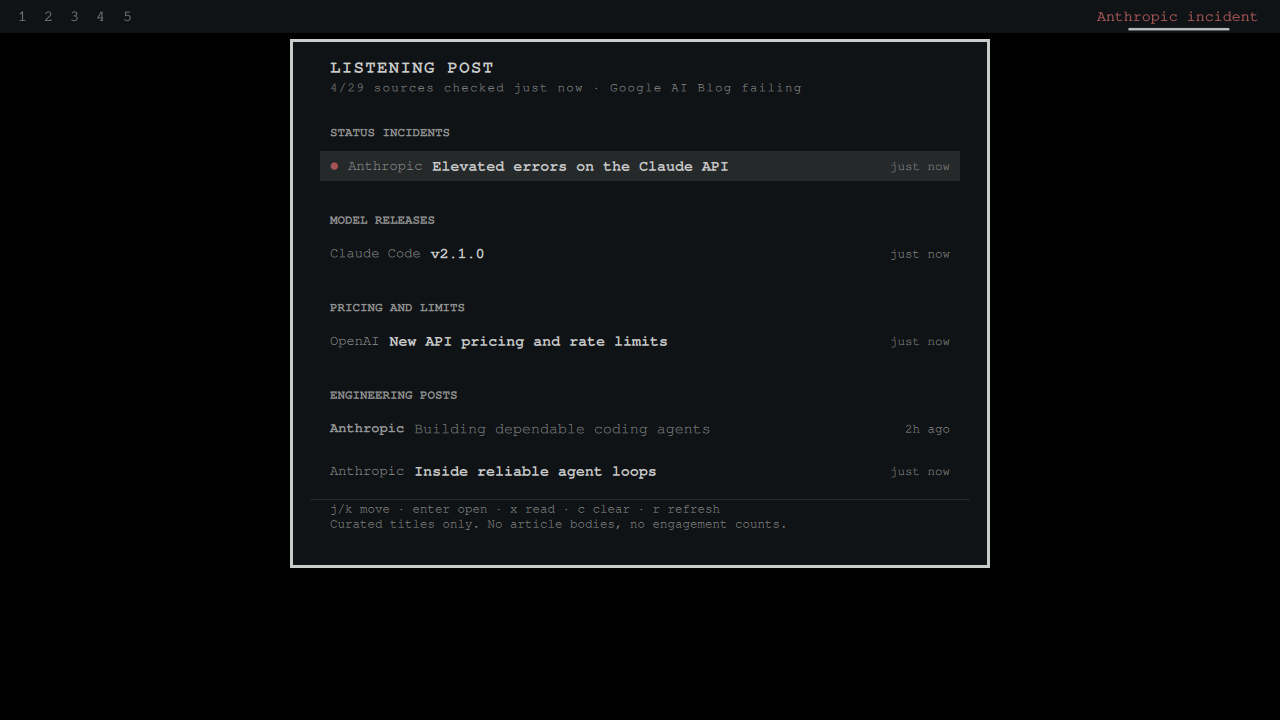
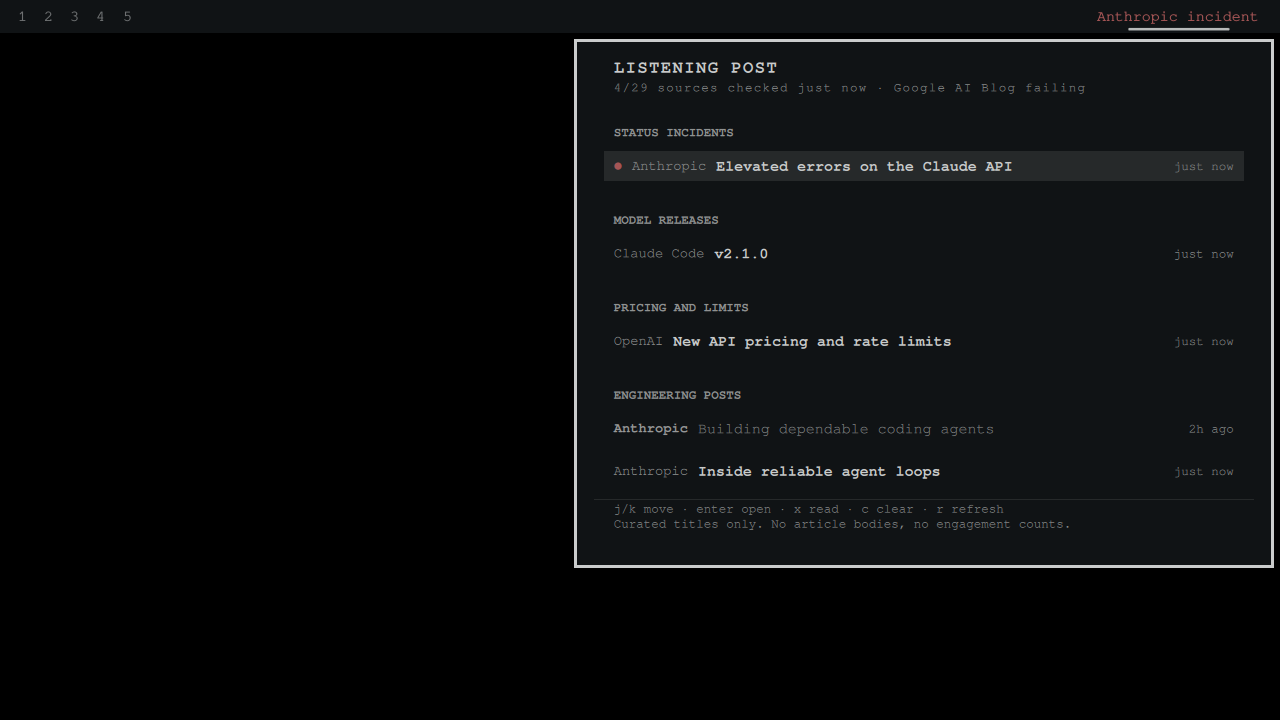
fix: anchor panel under the pill instead of the bar center (#7)
* fix: anchor panel under the pill instead of the bar center

Panel.qml set centerOnBar: true, which makes KeyboardPanel compute x from
the screen width and discard anchorItem on a top or bottom bar. A widget
moved out of the center section then opens its panel away from the pill
that spawned it.

The anchor is already wired end to end (BarWidget assigns the button,
Panel forwards it), so clearing the flag is enough. The existing clamp in
KeyboardPanel keeps the card on screen near either edge.

* test: bind panel anchoring to render evidence

---------

diff --git a/tests/a11y.test.js b/tests/a11y.test.js
@@ -15,6 +15,7 @@ test("the bar control exposes a dynamic named button and pointer activation", ()
 test("the panel exposes focus, close, navigation, activation, deletion, and refresh", () => {
   const qml = read("Panel.qml")
   assert.match(qml, /KeyboardPanel\s*{/)
+  assert.match(qml, /centerOnBar:\s*false/, "the panel must remain anchored under its bar pill")
   assert.match(qml, /focusTarget:\s*keyCatcher/)
   assert.match(qml, /PanelKeyCatcher\s*{/)
   assert.match(qml, /onCloseRequested:\s*root\.close\(\)/)

diff --git a/Panel.qml b/Panel.qml
@@ -222,7 +222,7 @@ Panel {
     owner: root.barIdentity
     bar: root.bar
     open: root.opened
-    centerOnBar: true
+    centerOnBar: false
     focusTarget: keyCatcher
     contentWidth: panel.fittedContentWidth(Style.space(560))
     contentHeight: panel.fittedContentHeight(contentColumn.implicitHeight)
